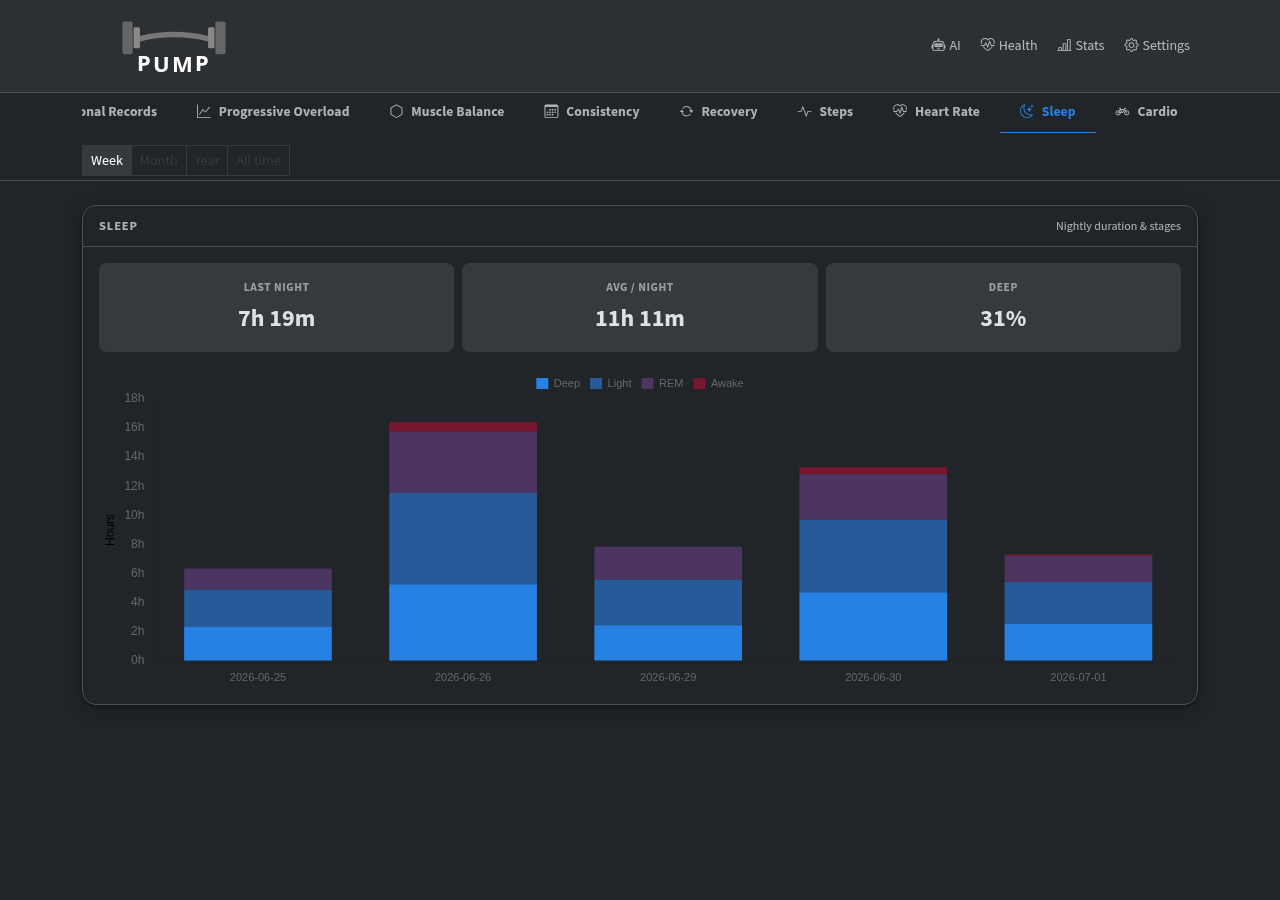
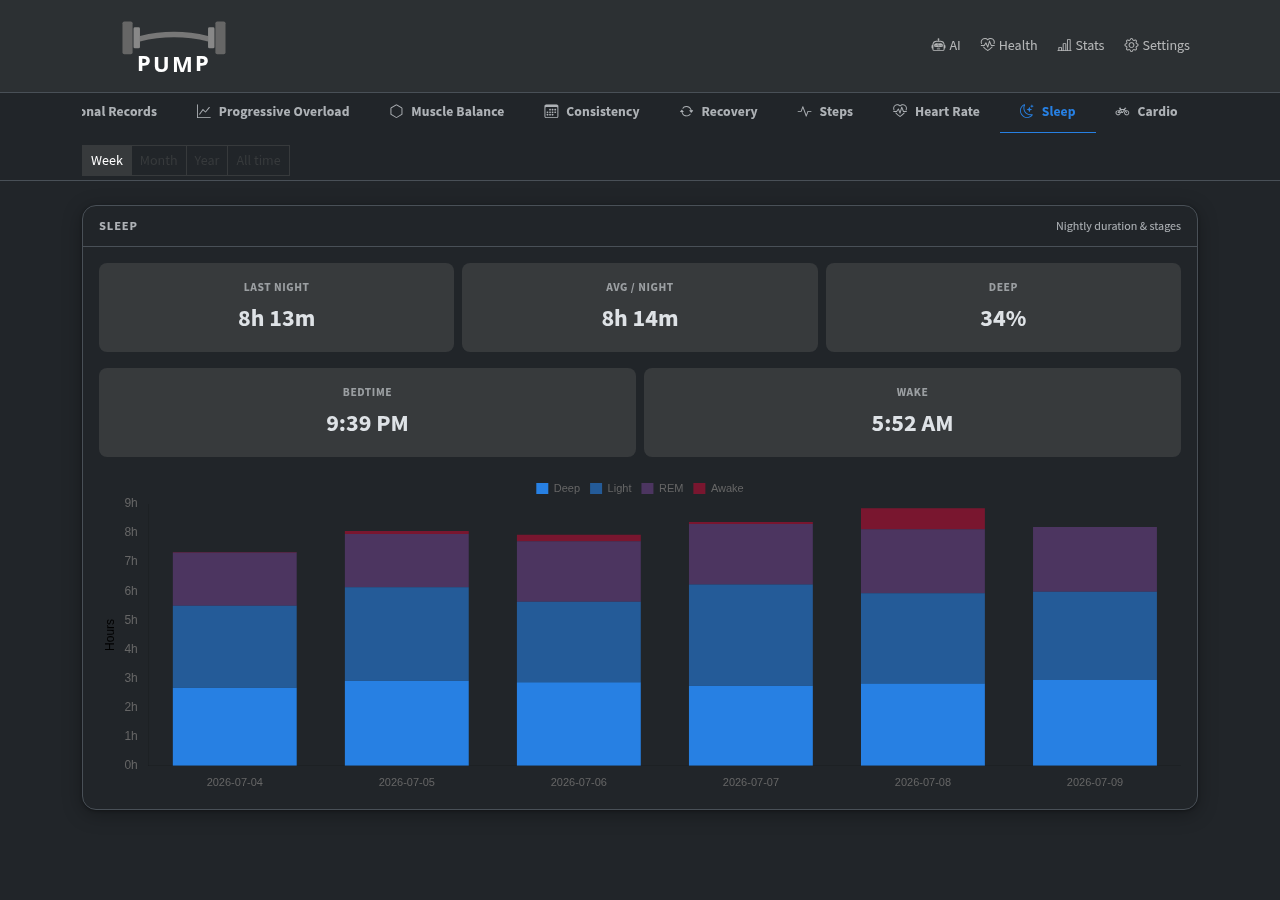
feat(stats): show bed/wake times on Sleep tab; fix snapshot over-count
Add bedtime and wake-time to the Sleep stats tab — two last-night stat
tiles plus per-night chart-tooltip lines (Asleep … / Woke …). No schema
change: start/end are already stored per health_record.

The real bed/wake times live on the per-stage segments, not the
top-level record timestamps (the HC Webhook bridge omits a session
end_time, so start_time == end_time). sleepSpan() now derives the span
from stages[].start_time/end_time.

Fix a pre-existing duration bug surfaced while verifying: sleep arrives
as cumulative snapshots (a night re-reported with a growing duration and
stages[], and a growing top-level start_time — so unlike steps it can't
be deduped by start_time). The old code summed the raw snapshots,
inflating a night's sleep by its snapshot count (a 7.5h night read as
~24h; "Avg / night" showed 15h47m). Collapse snapshots per session,
keyed by the stage-derived start, keeping the largest-duration reading.

Tests: bed/wake formatting from a distinct start/end record, and
snapshot dedup asserting the final reading (450 min) is used, not the
sum (690 min).

diff --git a/internal/web/public/js/health-charts.js b/internal/web/public/js/health-charts.js
@@ -164,6 +164,8 @@ function renderSleepTab(period) {
     const all = hcData('Sleep');
     const last = all.length ? all[all.length - 1] : null;
     hcSetText('sleep-last', last ? hcFmtDur(last.Minutes) : '–');
+    hcSetText('sleep-bedtime', last && last.Bedtime ? last.Bedtime : '–');
+    hcSetText('sleep-waketime', last && last.WakeTime ? last.WakeTime : '–');
 
     const data = hcByPeriod(all, period);
     // Avg nightly sleep and deep-share track the selected period.
@@ -210,7 +212,12 @@ function renderSleepTab(period) {
                         footer(items) {
                             if (!items.length) return '';
                             const n = data[items[0].dataIndex];
-                            return n ? 'Total sleep: ' + hcFmtDur(n.Minutes) : '';
+                            if (!n) return '';
+                            const lines = [];
+                            if (n.Bedtime) lines.push('Asleep ' + n.Bedtime);
+                            if (n.WakeTime) lines.push('Woke ' + n.WakeTime);
+                            lines.push('Total sleep: ' + hcFmtDur(n.Minutes));
+                            return lines;
                         }
                     }
                 }

diff --git a/internal/web/templates/stats.html b/internal/web/templates/stats.html
@@ -428,6 +428,10 @@
                     <div class="col-4"><div class="p-3 rounded-3 bg-body-secondary text-center"><div class="stat-label">Avg / night</div><div id="sleep-avg" class="fw-bold fs-4">–</div></div></div>
                     <div class="col-4"><div class="p-3 rounded-3 bg-body-secondary text-center"><div class="stat-label">Deep</div><div id="sleep-deep" class="fw-bold fs-4">–</div></div></div>
                   </div>
+                  <div class="row g-2 mb-3">
+                    <div class="col-6"><div class="p-3 rounded-3 bg-body-secondary text-center"><div class="stat-label">Bedtime</div><div id="sleep-bedtime" class="fw-bold fs-4">–</div></div></div>
+                    <div class="col-6"><div class="p-3 rounded-3 bg-body-secondary text-center"><div class="stat-label">Wake</div><div id="sleep-waketime" class="fw-bold fs-4">–</div></div></div>
+                  </div>
                   <canvas id="sleep-chart" style="max-height:320px;"></canvas>
                   <p class="text-center text-body-secondary mt-3 mb-0" id="sleep-no-data" style="display:none;">No sleep data in this period yet.</p>
                 </div>

diff --git a/internal/web/healthstats.go b/internal/web/healthstats.go
@@ -30,8 +30,9 @@ func loadHealthStats(ctx context.Context) models.HealthStats {
 // aggregateHealth collapses raw HealthRecords into the compact per-day series
 // the UI charts. Pure (no store) so it's trivially testable. Steps sum per
 // day; resting HR averages per day; heart_rate becomes a daily min/avg/max
-// spread; sleep groups by wake date with per-stage minutes; exercise becomes
-// individual cardio sessions.
+// spread; sleep dedupes cumulative snapshots per session then groups by wake
+// date with per-stage minutes and bed/wake times; exercise becomes individual
+// cardio sessions.
 func aggregateHealth(recs []models.HealthRecord) models.HealthStats {
 	out := models.HealthStats{Available: true}
 
@@ -48,6 +49,14 @@ func aggregateHealth(recs []models.HealthRecord) models.HealthStats {
 	restingByDay := map[string][]float64{}
 	hrByDay := map[string][]float64{}
 	sleepByDay := map[string]*models.SleepNight{}
+	// Sleep records arrive as cumulative snapshots of an in-progress session:
+	// the bridge re-reports the same night with a growing duration and a
+	// growing stages[] (and a growing top-level start_time, so — unlike steps —
+	// they can't be deduped by start_time). Collapse them per session, keyed by
+	// the session's true start (earliest stage start = bed time), keeping the
+	// snapshot with the largest duration (the final, complete reading). Summing
+	// the raw snapshots would multiply a night's sleep by its snapshot count.
+	sleepSessions := map[int64]sleepSnapshot{}
 
 	val := func(r models.HealthRecord) float64 {
 		if r.Value == nil {
@@ -69,18 +78,11 @@ func aggregateHealth(recs []models.HealthRecord) models.HealthStats {
 		case "heart_rate":
 			hrByDay[day] = append(hrByDay[day], val(r))
 		case "sleep":
-			// Key a night by its wake (end) date when available.
-			d := day
-			if r.EndTime != nil {
-				d = r.EndTime.Local().Format("2006-01-02")
+			start, end := sleepSpan(r)
+			key := start.UnixNano()
+			if cur, ok := sleepSessions[key]; !ok || val(r) > cur.dur {
+				sleepSessions[key] = sleepSnapshot{start: start, end: end, dur: val(r), extra: r.Extra}
 			}
-			n := sleepByDay[d]
-			if n == nil {
-				n = &models.SleepNight{Date: d}
-				sleepByDay[d] = n
-			}
-			n.Minutes += val(r) / 60.0
-			addSleepStages(r.Extra, n)
 		case "exercise":
 			out.Cardio = append(out.Cardio, cardioFromRecord(r, day, val(r)))
 		}
@@ -106,7 +108,35 @@ func aggregateHealth(recs []models.HealthRecord) models.HealthStats {
 	for d, vs := range restingByDay {
 		out.RestingHR = append(out.RestingHR, models.DayValue{Date: d, Value: mean(vs)})
 	}
-	for _, n := range sleepByDay {
+	// Fold the deduped sessions into per-night rollups, keyed by wake date, so
+	// genuine multi-session nights (e.g. a nap plus the main sleep) still sum
+	// while snapshot duplicates do not. Bed time is the night's earliest start,
+	// wake time its latest end.
+	sleepStartByDay := map[string]time.Time{}
+	sleepEndByDay := map[string]time.Time{}
+	for _, s := range sleepSessions {
+		d := s.end.Local().Format("2006-01-02")
+		n := sleepByDay[d]
+		if n == nil {
+			n = &models.SleepNight{Date: d}
+			sleepByDay[d] = n
+		}
+		n.Minutes += s.dur / 60.0
+		addSleepStages(s.extra, n)
+		if t, ok := sleepStartByDay[d]; !ok || s.start.Before(t) {
+			sleepStartByDay[d] = s.start
+		}
+		if t, ok := sleepEndByDay[d]; !ok || s.end.After(t) {
+			sleepEndByDay[d] = s.end
+		}
+	}
+	for d, n := range sleepByDay {
+		if s, ok := sleepStartByDay[d]; ok {
+			n.Bedtime = s.Local().Format("3:04 PM")
+		}
+		if e, ok := sleepEndByDay[d]; ok {
+			n.WakeTime = e.Local().Format("3:04 PM")
+		}
 		out.Sleep = append(out.Sleep, *n)
 	}
 
@@ -172,6 +202,51 @@ func minAvgMax(vs []float64) (mn, av, mx float64) {
 		sum += v
 	}
 	return mn, sum / float64(len(vs)), mx
+}
+
+// sleepSnapshot is one deduped sleep session: its true span (bed→wake), total
+// duration in seconds, and the Extra of the fullest snapshot (for stage rollup).
+type sleepSnapshot struct {
+	start, end time.Time
+	dur        float64
+	extra      json.RawMessage
+}
+
+// sleepSpan returns a sleep record's true span. The bridge frequently omits a
+// top-level session end_time (so StartTime == EndTime) and re-reports the same
+// session with a growing top-level start_time; the real bed/wake times live on
+// the per-stage segments. Prefer the earliest stage start and latest stage end
+// when stages are present, falling back to the record's own timestamps.
+func sleepSpan(r models.HealthRecord) (start, end time.Time) {
+	start = r.StartTime
+	if r.EndTime != nil {
+		end = *r.EndTime
+	} else {
+		end = r.StartTime
+	}
+	var e struct {
+		Stages []struct {
+			Start string `json:"start_time"`
+			End   string `json:"end_time"`
+		} `json:"stages"`
+	}
+	if len(r.Extra) == 0 || json.Unmarshal(r.Extra, &e) != nil {
+		return start, end
+	}
+	var haveStart, haveEnd bool
+	for _, s := range e.Stages {
+		if t, err := time.Parse(time.RFC3339, s.Start); err == nil {
+			if !haveStart || t.Before(start) {
+				start, haveStart = t, true
+			}
+		}
+		if t, err := time.Parse(time.RFC3339, s.End); err == nil {
+			if !haveEnd || t.After(end) {
+				end, haveEnd = t, true
+			}
+		}
+	}
+	return start, end
 }
 
 // addSleepStages parses a sleep record's Extra ({"stages":[{stage,duration_seconds}]})

diff --git a/internal/web/healthstats_test.go b/internal/web/healthstats_test.go
@@ -57,6 +57,80 @@ func TestAggregateHealthSleepStagesNumeric(t *testing.T) {
 	}
 }
 
+// TestAggregateHealthSleepBedWakeTimes verifies bed time (earliest start) and
+// wake time (latest end) are carried through as 12-hour formatted strings.
+func TestAggregateHealthSleepBedWakeTimes(t *testing.T) {
+	start := time.Date(2026, 6, 8, 22, 45, 0, 0, time.Local)
+	end := time.Date(2026, 6, 9, 6, 32, 0, 0, time.Local)
+	d := decimal.NewFromFloat(28020) // 7h47m in seconds
+	rc := models.HealthRecord{
+		MetricType: "sleep",
+		StartTime:  start,
+		EndTime:    &end,
+		Value:      &d,
+	}
+
+	out := aggregateHealth([]models.HealthRecord{rc})
+	if len(out.Sleep) != 1 {
+		t.Fatalf("want 1 sleep night, got %d", len(out.Sleep))
+	}
+	n := out.Sleep[0]
+	if want := start.Format("3:04 PM"); n.Bedtime != want {
+		t.Errorf("Bedtime: want %q, got %q", want, n.Bedtime)
+	}
+	if want := end.Format("3:04 PM"); n.WakeTime != want {
+		t.Errorf("WakeTime: want %q, got %q", want, n.WakeTime)
+	}
+}
+
+// TestAggregateHealthSleepSnapshotsDedupe mirrors the real bridge payload: a
+// single night re-reported as several cumulative snapshots with a growing
+// top-level start_time and growing duration/stages. The night's duration must
+// reflect the final snapshot (not the sum of all of them), and bed/wake come
+// from the stage timestamps, not the equal top-level start==end.
+func TestAggregateHealthSleepSnapshotsDedupe(t *testing.T) {
+	// Real bed 10:45 PM → wake 6:15 AM (7h30m). Stages carry the truth; the
+	// top-level start==end is a useless fallback that grows per snapshot.
+	stagesPartial := `{"stages":[
+		{"stage":"4","start_time":"2026-06-08T22:45:00Z","end_time":"2026-06-09T00:45:00Z","duration_seconds":7200},
+		{"stage":"5","start_time":"2026-06-09T00:45:00Z","end_time":"2026-06-09T02:45:00Z","duration_seconds":7200}
+	]}`
+	stagesFull := `{"stages":[
+		{"stage":"4","start_time":"2026-06-08T22:45:00Z","end_time":"2026-06-09T00:45:00Z","duration_seconds":7200},
+		{"stage":"5","start_time":"2026-06-09T00:45:00Z","end_time":"2026-06-09T02:45:00Z","duration_seconds":7200},
+		{"stage":"6","start_time":"2026-06-09T02:45:00Z","end_time":"2026-06-09T06:15:00Z","duration_seconds":12600}
+	]}`
+
+	mk := func(startUTC string, durSecs float64, extra string) models.HealthRecord {
+		st, _ := time.Parse(time.RFC3339, startUTC)
+		d := decimal.NewFromFloat(durSecs)
+		end := st // bridge fallback: end == start
+		return models.HealthRecord{MetricType: "sleep", StartTime: st, EndTime: &end, Value: &d, Extra: json.RawMessage(extra)}
+	}
+
+	recs := []models.HealthRecord{
+		mk("2026-06-09T04:00:00Z", 14400, stagesPartial), // early snapshot, 4h so far
+		mk("2026-06-09T07:00:00Z", 27000, stagesFull),    // final snapshot, 7h30m
+	}
+	out := aggregateHealth(recs)
+	if len(out.Sleep) != 1 {
+		t.Fatalf("want 1 sleep night (snapshots collapsed), got %d", len(out.Sleep))
+	}
+	n := out.Sleep[0]
+	// Final snapshot is 7h30m = 450 min — NOT 14400+27000 summed (690 min).
+	if n.Minutes != 450 {
+		t.Errorf("Minutes: want 450 (final snapshot only), got %v", n.Minutes)
+	}
+	bed := time.Date(2026, 6, 8, 22, 45, 0, 0, time.UTC).Local().Format("3:04 PM")
+	wake := time.Date(2026, 6, 9, 6, 15, 0, 0, time.UTC).Local().Format("3:04 PM")
+	if n.Bedtime != bed {
+		t.Errorf("Bedtime: want %q (earliest stage start), got %q", bed, n.Bedtime)
+	}
+	if n.WakeTime != wake {
+		t.Errorf("WakeTime: want %q (latest stage end), got %q", wake, n.WakeTime)
+	}
+}
+
 // TestAggregateHealthRestingHRProxy verifies that when only raw heart_rate is
 // present (no resting_heart_rate), a resting proxy is synthesized from the
 // day's minimum so the Resting HR tile/line populate.

diff --git a/internal/models/models.go b/internal/models/models.go
@@ -128,12 +128,14 @@ type DayRange struct {
 // SleepNight is one night keyed by wake date, with per-stage minutes (zero
 // when the source didn't report stages).
 type SleepNight struct {
-	Date    string  `json:"Date"`
-	Minutes float64 `json:"Minutes"`
-	Deep    float64 `json:"Deep"`
-	Light   float64 `json:"Light"`
-	REM     float64 `json:"REM"`
-	Awake   float64 `json:"Awake"`
+	Date     string  `json:"Date"`
+	Minutes  float64 `json:"Minutes"`
+	Deep     float64 `json:"Deep"`
+	Light    float64 `json:"Light"`
+	REM      float64 `json:"REM"`
+	Awake    float64 `json:"Awake"`
+	Bedtime  string  `json:"Bedtime"`  // "10:45 PM"; "" when unknown
+	WakeTime string  `json:"WakeTime"` // "6:32 AM";  "" when unknown
 }
 
 // CardioSession is one band-tracked workout.
